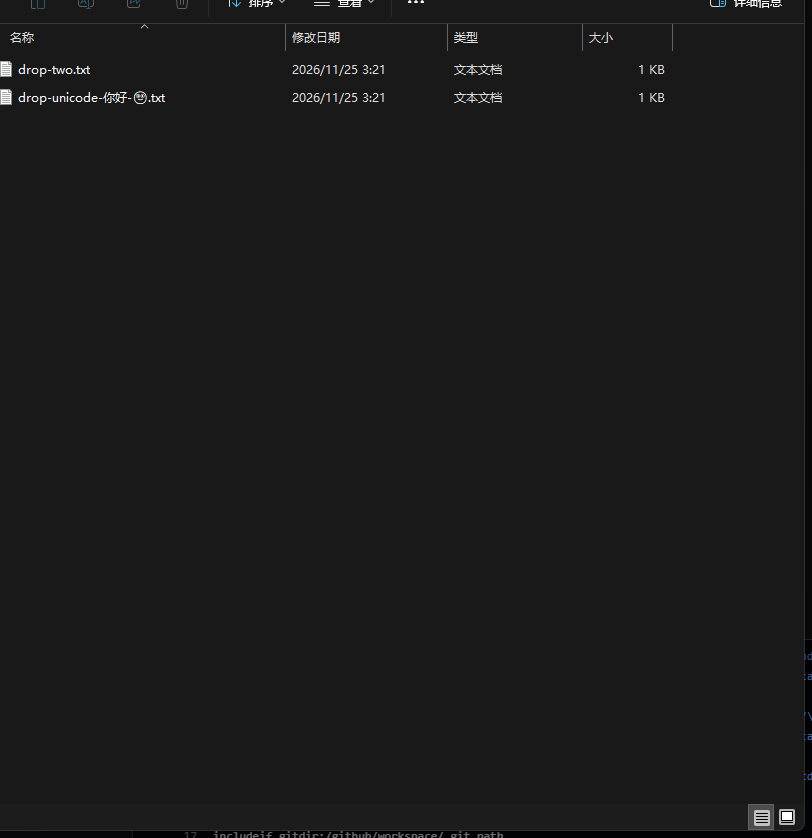
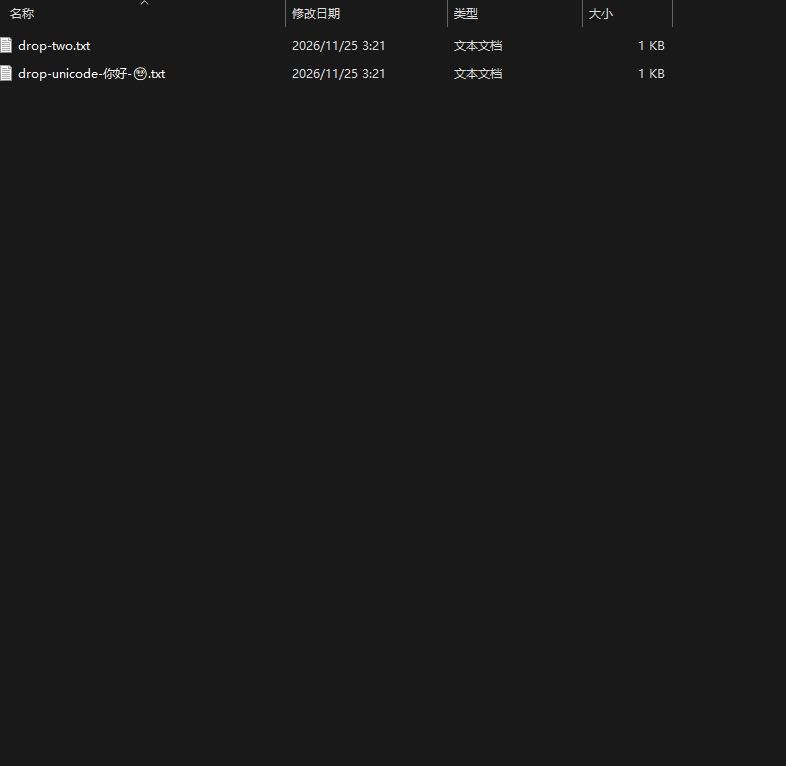
docs: correct file-drop evidence claims and crops (#209)

diff --git a/docs/实现/stage-three-文件拖放-验收.md b/docs/实现/stage-three-文件拖放-验收.md
@@ -2,7 +2,7 @@
 
 本页记录 Windows 宿主从资源管理器接收 OLE 文件拖放的可见结果：单文件与多文件、Unicode/非 BMP/长路径、文件夹、非文件数据、无处理器窗口、关闭提示、模态选择器打开、关闭重开与拖放后可用性。契约见 [ADR-0016](../adr/0016-ole-file-drop-target.md)，SDK 用法见[窗口与任务](../SDK/窗口与任务.md#文件拖放的事件与所有权)。
 
-- 基线：`main` `3cb3cdb`（#208 合并后的 OLE drop target；多文件图沿用同一实现）
+- 基线：`main` `3cb3cdb`（#208 合并后的 OLE drop target）。多文件图在 #208 分支（基于 `5b6970d`）采集，合并后的实现与 `3cb3cdb` 相同；其余场景在 `3cb3cdb` 上采集。
 - 示例：`crates/windows/examples/todo_host.rs`（ZenUI Todo / ZenUI Details），debug 构建
 - 平台：Windows 11，单屏 2560×1600
 
@@ -19,7 +19,7 @@
 - 新采集的样本位于 `E:\code\mine\zenui\target\drop-acceptance`：`single.txt`、`multi-a.txt`、`multi-b.txt`、`unicode-你好-🙂.txt`、`folder-drop/` 与 272 字符的长路径文件。多文件图沿用 #208 的 `drop-two.txt` 与 `drop-unicode-你好-🙂.txt`；文件名与内容出现在图中，源目录未显示。
 - 资源管理器窗口每次由脚本打开并置于应用左侧，Details 视图。单文件直接点击；多文件图使用真实点击第一行后 Ctrl+A 选中两行。每次拖动前由 UIA `SelectionItemPattern` 读回选中数量。
 - 拖动是仓库外 PowerShell 脚本注入的 Win32 鼠标事件：按下后先移出拖拽阈值，再分 30 步移到目标，停留后释放。拖放中的截图在按钮仍按下时用 `BitBlt` 的 `SRCCOPY|CAPTUREBLT` 抓取；位图不含硬件光标，脚本按当前位置补画。
-- 应用窗口图来自 `PrintWindow(PW_RENDERFULLCONTENT)`。资源管理器证据图只裁文件列表，不含导航窗格、地址栏或窗口标题；原生对话框只保留标题条与文件列表；Notepad 只保留文档区。截图不含 OneDrive 登录名或其它个人路径。
+- 应用窗口图来自 `PrintWindow(PW_RENDERFULLCONTENT)`。资源管理器单独图（`*-00-explorer.png`）只保留文件列表；拖放中的合成图保留应用内容区、资源管理器文件列表与顶部命令栏，底边裁到状态栏以上，不含导航窗格、地址栏、窗口标题或其它窗口内容；原生对话框只保留标题条与文件列表；Notepad 只保留文档区。所有截图不含 OneDrive 登录名或其它个人路径。
 - Notepad 复用用户已打开的窗口，仅新增并操作 `non-file.txt` 标签页；未打开或修改其它恢复标签页，也未读取其文档内容。采集后关闭该标签页并把窗口尺寸恢复，Notepad 保持打开。
 - 应用任务在落点后约 1.8–2.8 秒读取；截图中的 `Imported N task(s)` 与任务行是最终可见结果。原始场景读数见 `证据/host-drop/states.txt` 的 #209 段。
 
@@ -65,10 +65,10 @@
 主窗口草稿为 `Unsaved drop draft` 时发送关闭请求，出现 `Discard draft?` 确认窗口。确认窗口没有 `on_drop`，父窗口处于关闭挂起；把 `single.txt` 拖到确认窗口后：
 
 - 任务仍为 `Write tests`、`Read docs`，没有通知或错误；
-- 确认窗口保持打开，父窗口保持禁用；
-- 通过 UIA 触发 Continue editing 后确认窗口关闭，主窗口恢复，草稿仍为 `Unsaved drop draft`。
+- 确认窗口保持打开；父窗口处于关闭挂起，宿主在待决关闭期间用 `EnableWindow(false)` 禁用它（ADR-0016 与宿主测试），本页截图只覆盖确认窗口，未单独读取父窗口的 `IsWindowEnabled`；
+- 通过 UIA 触发 Continue editing 后确认窗口关闭（`confirmVisible=False`），主窗口保持打开，草稿仍为 `Unsaved drop draft`。
 
-证据：`150-close-prompt-01-main.png`、`150-close-prompt-02-confirm.png`、`150-close-prompt-03-drag.png`、`150-close-prompt-04-confirm-after.png`、`150-close-prompt-05-main-after-deny.png`。
+证据：`150-close-prompt-01-main.png`、`150-close-prompt-02-confirm.png`、`150-close-prompt-03-drag.png`、`150-close-prompt-04-confirm-after.png`、`150-close-prompt-05-main-after-deny.png`；`states.txt` 记录任务、通知与草稿读数。
 
 ## 模态选择器打开
 
@@ -78,7 +78,7 @@
 | --- | --- | --- |
 | 对话框 | `Import tasks` 标题与文件列表可见，拖放后仍打开 | `150-picker-00-title.png`、`150-picker-01-dialog.png`、`150-picker-04-dialog-after.png` |
 | 主窗口 | 任务仍为 2，无通知或错误 | `150-picker-02-main.png`、`150-picker-03-drag.png` |
-| 取消 | 通过 UIA 调用取消按钮后对话框关闭，主窗口恢复 | `150-picker-05-main-after-cancel.png` |
+| 取消 | 通过 UIA 调用取消按钮后对话框关闭（`dialogOpenAfterCancel=False`）；主窗口保持打开 | `150-picker-05-main-after-cancel.png`、`states.txt` |
 
 模态期间 owner 由 shell 禁用，目标的 `IsWindowEnabled` 检查返回 false；宿主不需要额外的模态标志，也没有把拖放排入队列。
 
@@ -89,7 +89,7 @@
 | 阶段 | 主窗口任务 | Details | 证据 |
 | --- | --- | --- | --- |
 | 第一次打开 | 3 | `Imported 1 task`，行 `Write tests`、`Read docs`、`Single drop` | `150-details-01-drag.png`、`150-details-02-first-after.png` |
-| 关闭后 | 3 | 窗口已释放 | `150-details-03-main-after-close.png` |
+| 关闭后 | 3 | 窗口已释放（`detailsClosed=True`） | `150-details-03-main-after-close.png`（主窗口）、`states.txt` |
 | 重开并再次拖入 | 4 | `Imported 1 task`，新增 `Multi A` | `150-details-04-reopen-drag.png`、`150-details-05-reopen-after.png` |
 
 ## 拖放后可用性
@@ -101,7 +101,7 @@
 ## 隐藏测试与 CI
 
 - workspace 843 个测试通过；`cargo fmt --all -- --check` 与 workspace clippy `-D warnings` 通过。
-- `drag_drop` 模块 7 个测试：Unicode/重复路径按序提取、未配对代理项、缺失或空 `CF_HDROP`、COPY/启用/文件列表判定、注册策略、medium 释放、`RPC_E_CHANGED_MODE` 映射。
+- `drag_drop` 模块 7 个测试：Unicode/重复路径按序提取、未配对代理项、缺失或空 `CF_HDROP`、COPY/启用/文件列表判定、注册策略与 `RPC_E_CHANGED_MODE` 映射。medium 释放由 `collect_paths` 的单一 `ReleaseStgMedium` 路径保证，当前测试未直接断言该调用。
 - Windows 宿主隐藏测试：带 `on_drop` 的窗口在隐藏宿主中不创建 target，也不初始化 OLE。
 - 运行时校验、handler 阶段、任务 scope、关闭/重开与 handler panic 由 #207 的 10 个测试覆盖。
 - 模态 shell 对话框、真实资源管理器和非文件源只能由本页的可见运行证明；fake `IDataObject`、隐藏 smoke 与合成 `Runtime::drop_files` 是部分证据。
@@ -113,4 +113,4 @@
 - 只覆盖 Windows 资源管理器文件列表与 Notepad 文本两个 OLE 源；压缩工具、浏览器下载列表、虚拟文件与网络路径没有真机证据。
 - 只实现 `CF_HDROP` 的 COPY；文本、URL、图片、MOVE/LINK、拖放位置、drag image、自动滚动与程序化拖动不在本切片。
 - 文件夹是路径，接受与否由应用处理器决定；Todo 的读取错误是应用行为，不是宿主拒绝。
-- 新采集场景的文件与错误路径来自仓库内的 `target`；多文件图的源目录未显示，文件名与内容为公开测试字符串。导航窗格、地址栏和个人标签页标题被裁掉或未采集。
+- 新采集场景的文件与错误路径来自仓库内的 `target`；多文件图的源目录未显示，文件名与内容为公开测试字符串。导航窗格、地址栏、状态栏和个人标签页标题被裁掉或未采集。

diff --git a/docs/实现/验证重点.md b/docs/实现/验证重点.md
@@ -109,7 +109,7 @@ workspace 测试矩阵中，不依赖 Windows。
 
 - 文本编辑历史按输入保存在运行时：连续单字符插入合并为最多 64 个字符的撤销步，空白并入前一个 run；移动、焦点、删除、多字符插入、整体替换、组合、撤销/重做与外部替换开新步。撤销/重做各恰好一次 `on:input` 且模型是权威；精确 caret/anchor/selection 恢复只对 identity handler 成立；组合中拒绝，禁用/隐藏/关闭挂起拒绝；外部替换清空两个栈。Windows 宿主把 Ctrl+Z/Y 接到聚焦启用输入；可见证据见 [stage-three 文本编辑历史验收](stage-three-文本编辑历史-验收.md)，隐藏/CI 是部分证据。
 - Windows 宿主把 Ctrl+C/X/V 接到可注入的 `ClipboardProvider`：可见宿主安装 `CF_UNICODETEXT` 原生 provider，隐藏宿主默认没有 provider；复制写出已提交选区且不派发 `on:input`，剪切只在写入成功后用 Backspace 语义删除选区，粘贴过滤全部控制字符后通过同一插入 reducer 替换选区或插入 caret；剪切与粘贴各恰好一次 `on:input`，失败或没有 provider 时文本、选区与 caret 不变；AltGr 不触发快捷键。契约见 [ADR-0015](../adr/0015-clipboard-host-capability.md)；可见 Notepad 双向互操作、应用内剪切、空/非文本与组合 no-op 见 [stage-three 剪贴板验收](stage-three-剪贴板-验收.md)，隐藏/CI 是部分证据。
-- Windows 宿主为每个可见且注册 `on_drop` 的窗口建立 OLE `IDropTarget`；`OleInitialize` 先于第一次 `RegisterDragDrop`，隐藏宿主不建立 target 也不为拖放初始化 OLE。窗口隐藏或关闭撤销 target，重开得到新 target 与空队列，旧队列随 registration 释放。`DragEnter`/`DragOver` 只在窗口启用、数据提供 `CF_HDROP` 且源允许 COPY 时返回 COPY，非文件与 MOVE/LINK 返回 NONE；`Drop` 用 `DragQueryFileW` 按源顺序提取，保留重复、Unicode、非 BMP、长路径与未配对代理项，并在每个结果路径释放 medium。COM 回调只改队列并投递 `WM_APP + 5`；宿主在 UI 线程 drain 后调用 `Runtime::drop_files`，处理器在 `Phase::Event` 运行，可写 Signal/Store、排队窗口请求并启动 window/app 任务。模态 shell 对话框与关闭确认通过原生窗口禁用拒绝拖放；本示例的确认窗口没有处理器。`DropEvent` 不是任务，没有取消或 pending 状态。契约见 [ADR-0016](../adr/0016-ole-file-drop-target.md)；fake `IDataObject` 与隐藏测试只覆盖效果、提取、注册和生命周期，真实资源管理器 100%/150% 结果见 [stage-three 文件拖放验收](stage-three-文件拖放-验收.md)。
+- Windows 宿主为每个可见且注册 `on_drop` 的窗口建立 OLE `IDropTarget`；`OleInitialize` 先于第一次 `RegisterDragDrop`，隐藏宿主不建立 target 也不为拖放初始化 OLE。窗口隐藏或关闭撤销 target，重开得到新 target 与空队列，旧队列随 registration 释放。`DragEnter`/`DragOver` 只在窗口启用、数据提供 `CF_HDROP` 且源允许 COPY 时返回 COPY，非文件与 MOVE/LINK 返回 NONE；`Drop` 用 `DragQueryFileW` 按源顺序提取，保留重复、Unicode、非 BMP、长路径与未配对代理项，并在每个结果路径释放 medium。COM 回调只改队列并投递 `WM_APP + 5`；宿主在 UI 线程 drain 后调用 `Runtime::drop_files`，处理器在 `Phase::Event` 运行，可写 Signal/Store、排队窗口请求并启动 window/app 任务。模态 shell 对话框的 owner 与关闭确认的父窗口通过原生窗口禁用拒绝拖放；本示例的确认窗口没有处理器。确认窗口本身不被禁用，若应用注册处理器，target 会在拖动阶段接受，但 drain 的 `Suspended` 拒绝保证处理器不运行。`DropEvent` 不是任务，没有取消或 pending 状态。契约见 [ADR-0016](../adr/0016-ole-file-drop-target.md)；fake `IDataObject` 与隐藏测试只覆盖效果、提取、注册与窗口/registration 生命周期，真实资源管理器 100%/150% 结果见 [stage-three 文件拖放验收](stage-three-文件拖放-验收.md)。
 - 目标设计（未交付）：TextInput 的本地 input 产生匹配 origin 只确认同步，下一次独立外部 reset 仍能按 revision 应用；前一次 origin 不抑制后续无来源清空、撤销或远端值。
 - 目标设计（未交付）：两个连续本地 edit 在 value delivery 前保持 revision，旧快照不回滚新输入；同 key 重新挂载拒绝旧 origin。
 - 目标设计（未交付）：外部 replace 在 composition 中的 commit / cancel、selection 夹取或恢复策略通过同一 reducer trace 可观察。

diff --git a/docs/adr/0016-ole-file-drop-target.md b/docs/adr/0016-ole-file-drop-target.md
@@ -46,7 +46,7 @@ COM callbacks run inside the shell's drag loop. They only inspect the HWND and d
 
 Expected races between the native acceptance and the drain (window hidden, suspended or closed in between) are treated as rejected drops rather than fatal host errors. Genuine handler or refresh failures surface as `HostError::Drop`; a failed `PostMessage` cancels the drop and reports `E_FAIL` to OLE.
 
-The native target checks `IsWindowEnabled`. A modal shell picker disables its owner, and the host disables a parent while a close confirmation is pending; drops over those windows return NONE. The confirmation window used by the demo has no `on_drop` handler and therefore no target. This is why no extra modal-state flag is needed in the drop path.
+The native target checks `IsWindowEnabled`. A modal shell picker disables its owner, and the host disables a parent while a close confirmation is pending; drops over the owner and parent return NONE. The confirmation window used by the demo has no `on_drop` handler and therefore no target. A confirmation window with a handler is a different case: it remains enabled, so its target accepts during the drag, and `Runtime::drop_files` rejects the queued drop as `Suspended`; the handler still does not run. This is why the drag path needs no extra modal-state flag.
 
 ### DropEvent is not a host task
 
@@ -70,4 +70,4 @@ The native host needs OLE on its UI thread; a thread already in another COM apar
 
 No custom drag image, drag-over highlight, drop-position hit testing, auto-scroll or programmatic drag is implemented. The target accepts over the whole client area and relies on the shell cursor/effect. Out of scope for this slice: text/URL/image drops, MOVE/LINK effects, multiple simultaneous drags and cross-monitor behavior.
 
-Fake `IDataObject` tests cover effects, extraction, registration policy and medium lifetime; hidden tests cover the runtime validation and lifetime. They are partial evidence. The visible Windows acceptance at 100% and 150% is recorded in [stage-three file drop acceptance](../实现/stage-three-文件拖放-验收.md); the `DropEvent` API and validation rules are described in the [window and task SDK](../SDK/窗口与任务.md).
+Fake `IDataObject` tests cover effects, extraction and registration policy; medium release is enforced by the single `ReleaseStgMedium` path in `collect_paths`, but the current tests do not assert that call directly. Hidden tests cover the runtime validation and lifetime. Together they are partial evidence. The visible Windows acceptance at 100% and 150% is recorded in [stage-three file drop acceptance](../实现/stage-three-文件拖放-验收.md); the `DropEvent` API and validation rules are described in the [window and task SDK](../SDK/窗口与任务.md).
